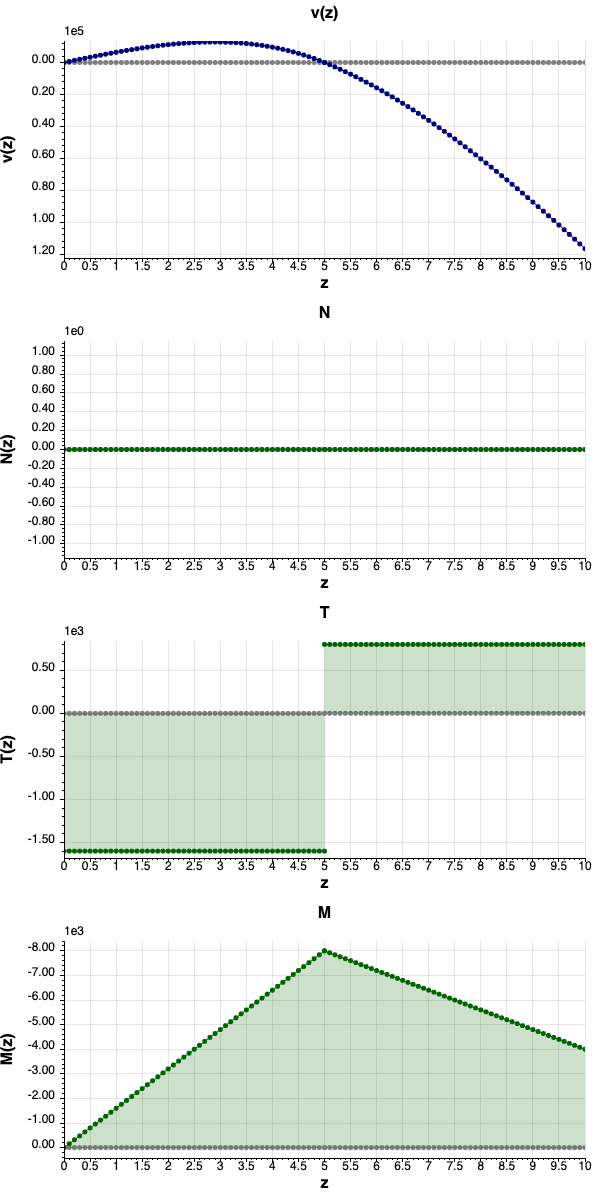
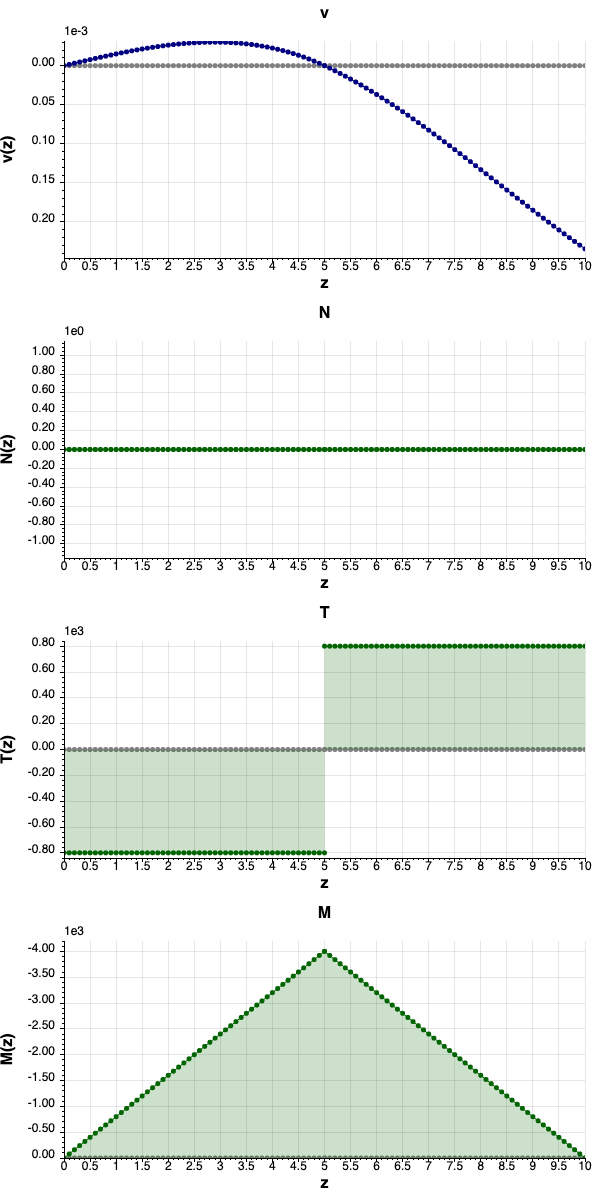
Image output

diff --git a/src/Plotter.cs b/src/Plotter.cs
@@ -24,14 +24,21 @@ public class PlotHelper
         multiplot.AddPlot(T); // add the shear force plot to the multiplot
         multiplot.AddPlot(M); // add the bending moment plot to the multiplot
 
-        string imagePath = "plot.png"; // path to save the image
+        // string imagePath = "plot.png"; // path to save the image
+        var baseDirectory = Directory.GetParent(AppDomain.CurrentDomain.BaseDirectory);
+        if (baseDirectory == null || baseDirectory.Parent == null || baseDirectory.Parent.Parent == null)
+        {
+            throw new InvalidOperationException("Unable to determine the project root directory.");
+        }
+        string projectRoot = baseDirectory.Parent.Parent.FullName;
+        string imagePath = Path.Combine(projectRoot, "plot.png");
         multiplot.SavePng(imagePath, 600, 1200); // save the image
         OpenImage(imagePath); // open the image
     }
 
     public static void OpenImage(string imagePath){
         Console.WriteLine();
-        Console.WriteLine($"Immagine generata nel file: {imagePath}");
+        Console.WriteLine($"Plot save in: {imagePath}");
         Process.Start(new ProcessStartInfo
         {
             FileName = Path.GetFullPath(imagePath),
